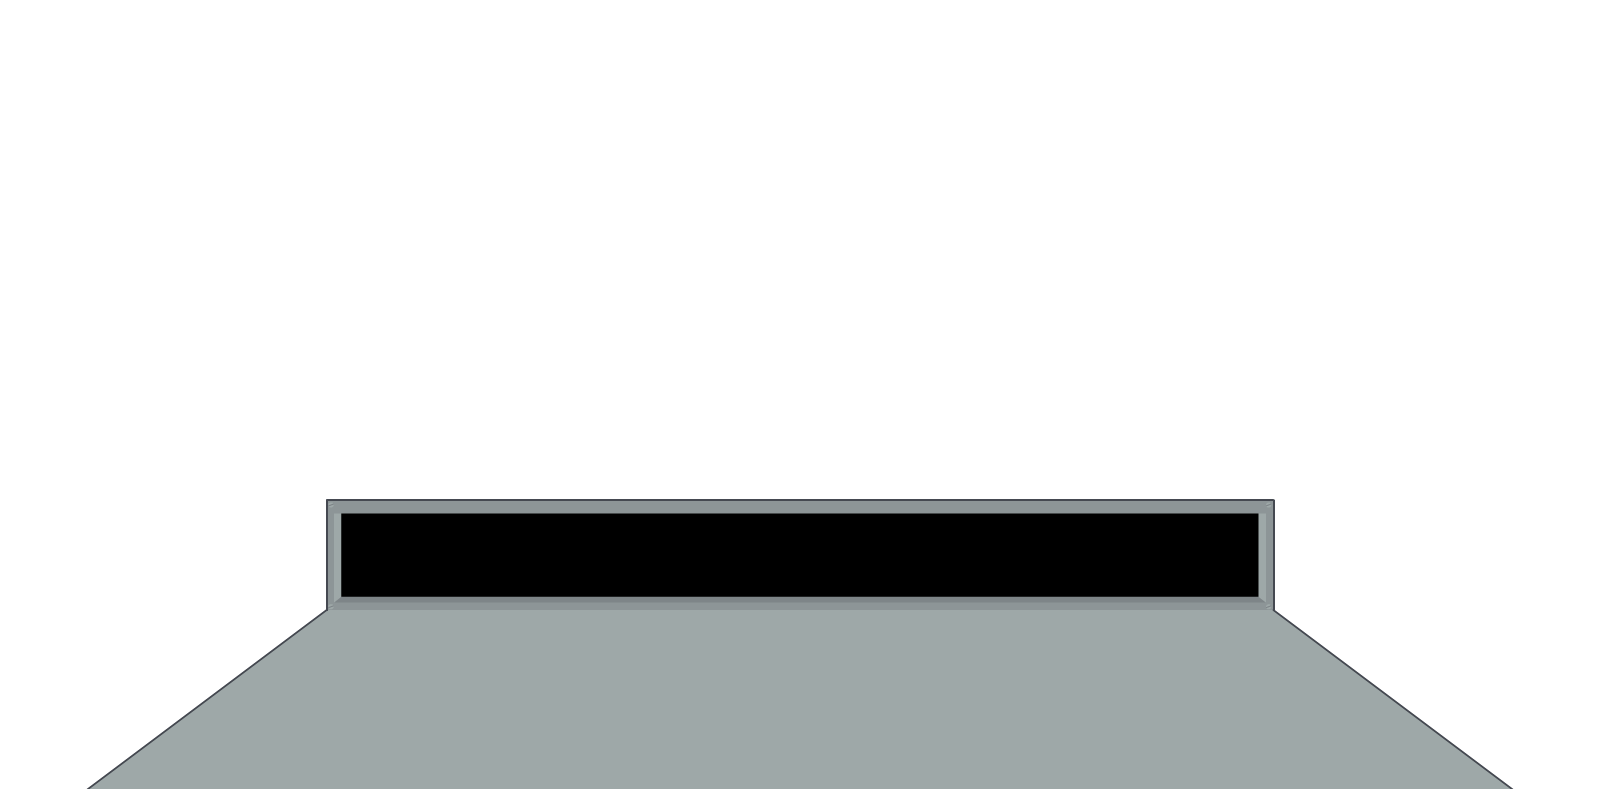
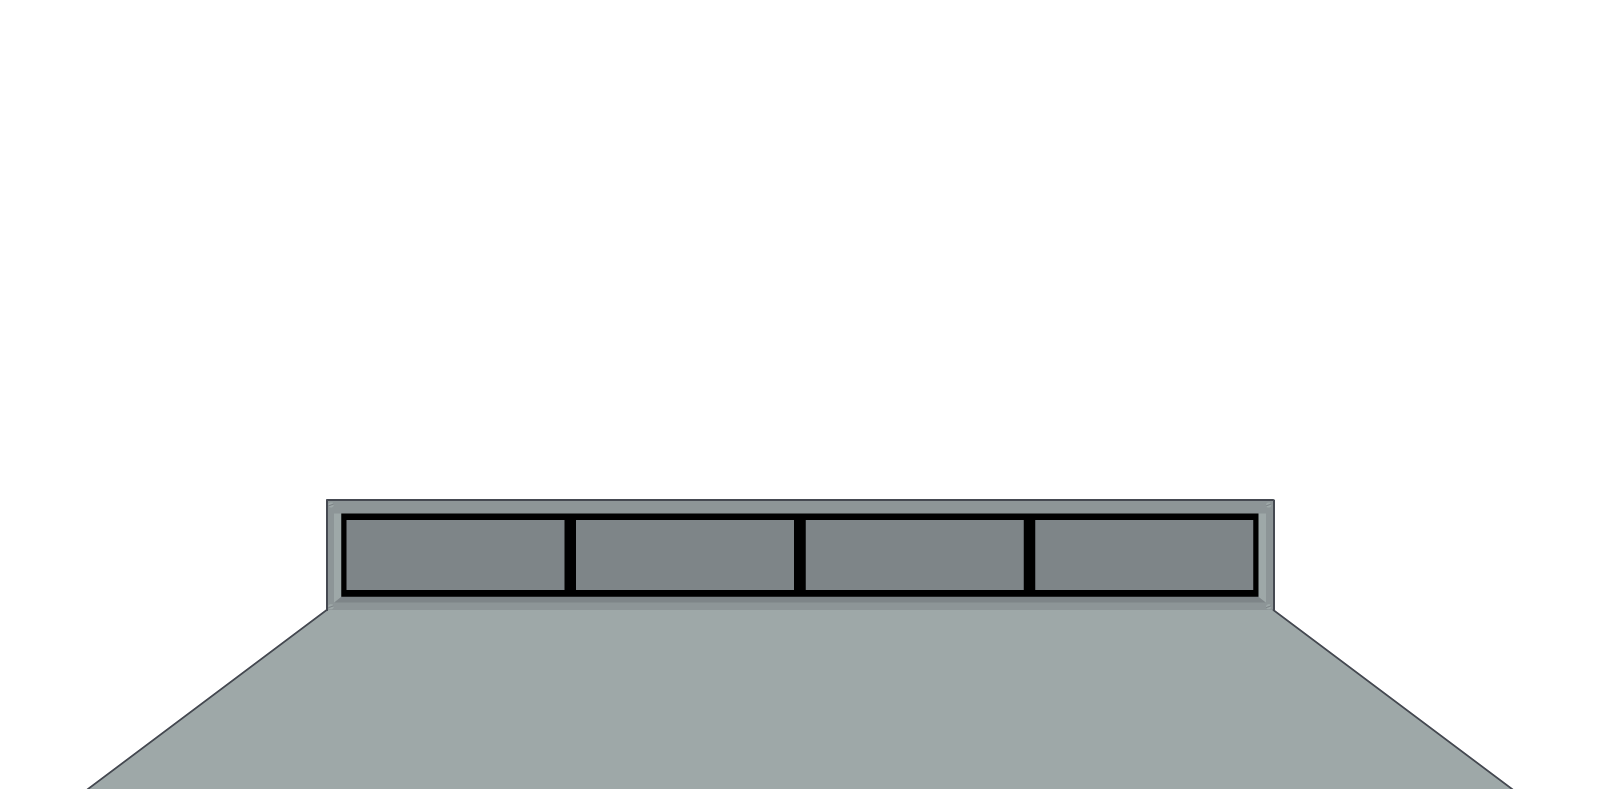
dialogue buttons again
there's like a weird bug with specifically only the first button presented in the game where when you try to get the width its fucked up??? i lowkey dont feel like trying to figure that out so i just changed it to "Confirm" so it would fit in the box i hope this is fine

Changed region(s): [[0.2188, 0.6388, 0.7812, 0.7605]]

diff --git a/style.css b/style.css
@@ -10,23 +10,23 @@
     src: url('data/Segment14.otf');
 }
 
-/*.dialogue-button-parent {
+.dialogue-button-parent {
     display: inline;
-    filter: drop-shadow(0px -10px 0px grey) drop-shadow(-2.5px 0px 0px rgb(110, 110, 110)) drop-shadow(2.5px 0px 0px rgb(110, 110, 110));
-}*/
+    filter: drop-shadow(0px -10px 0px rgb(158, 168, 168)) drop-shadow(-2.5px 0px 0px rgb(141, 149, 151)) drop-shadow(2.5px 0px 0px rgb(141, 149, 151));
+}
 
 .dialogue-button {
     position: relative;
     max-width: 16ch;
-    animation: second-anim .25s ease-in-out;
+    animation: reveal .25s ease-in-out;
     display: block;
     background-color: black;
     color: Lime;
-    font-size: 24px;
-    border: 2px solid Lime;
+    font-size: 20px;
+    border: 4px solid rgb(141, 149, 151);
     font-family: quartzFont;
     cursor: pointer;
-    clip-path: inset(0 0 0 0);
+    clip-path: inset(0 0 40% 0);
 }
 
 .dialogue-button:hover .flicker-text {
@@ -60,37 +60,38 @@
 
 @keyframes reveal {
     0% {
-        clip-path: inset(0 100% 100% 0);
+        clip-path: inset(0 100% 40% 0);
     }
     100% {
-        clip-path: inset(0 0 0 0);
+        clip-path: inset(0 0 40% 0);
     }
 }
 
-/*.dialogue-button.second-anim-class {
+.dialogue-button.second-anim-class {
     animation: second-anim 0.5s forwards;
-}*/
+}
 
 @keyframes second-anim {
     0% {
-        clip-path: inset(0 100% 0 0);
+        clip-path: inset(0 0 40% 0);
     }
     100% {
         clip-path: inset(0 0 0 0);
+        transform: translate(0px, -10px);
     }
 }
 
-/*.dialogue-button-parent.init-reveal {
+.dialogue-button-parent.init-reveal {
     animation: remove-shadow 0.5s forwards;
     /* delay matches reveal duration */
-}*/
+}
 
 @keyframes remove-shadow {
     0% {
-        filter: drop-shadow(0px -10px 0px grey) drop-shadow(-2.5px 0px 0px rgb(110, 110, 110)) drop-shadow(2.5px 0px 0px rgb(110, 110, 110));
+        filter: drop-shadow(0px -10px 0px rgb(158, 168, 168)) drop-shadow(-2.5px 0px 0px rgb(141, 149, 151)) drop-shadow(2.5px 0px 0px rgb(141, 149, 151));
         ;
     }
     100% {
-        filter: drop-shadow(0px 5.5px 0px rgb(170, 170, 170));
+        filter: drop-shadow(0px 5.5px 0px rgb(158, 168, 168));
     }
 }

diff --git a/Dialogue.js b/Dialogue.js
@@ -233,14 +233,15 @@ class DialogueChoice {
 
             this.wrapper.elt.appendChild(this.button.elt);
 
-            /*this.button.elt.addEventListener('animationend', () => {
+            this.button.elt.addEventListener('animationend', () => {
                 this.button.addClass('second-anim-class');
                 this.wrapper.addClass('init-reveal');
-            });*/
+            });
 
-            this.wrapper.position(DialogueChoice.position.x, DialogueChoice.position.y + (83.45/2 - this.wrapper.elt.offsetHeight/2));
+            // i tried this.wrapper.elt.offsetWidth to get the width of each button but it didn't work :( so i had to use this other method instead
+            this.wrapper.position(DialogueChoice.position.x + 218/2 - this.button.elt.getBoundingClientRect().width/2, DialogueChoice.position.y + (83.45/2 - this.wrapper.elt.offsetHeight/2));
 
-            DialogueChoice.position.add(this.wrapper.elt.offsetWidth + 50, 0);
+            DialogueChoice.position.add(229.6, 0);
             DialogueChoice.num++;
             // end of vibe code
 

diff --git a/OutsideConsole.js b/OutsideConsole.js
@@ -135,7 +135,7 @@ function outsideConsole(c) {
     c.pop();
     
     if(!DialogueChoice.positionInitialized) {
-      DialogueChoice.origin = new p5.Vector(351.3, 513.4);
+      DialogueChoice.origin = new p5.Vector(346.5, 520);
       DialogueChoice.position.set(DialogueChoice.origin.x, DialogueChoice.origin.y);
       // DialogueChoice.positionInitialized = true;
     }
